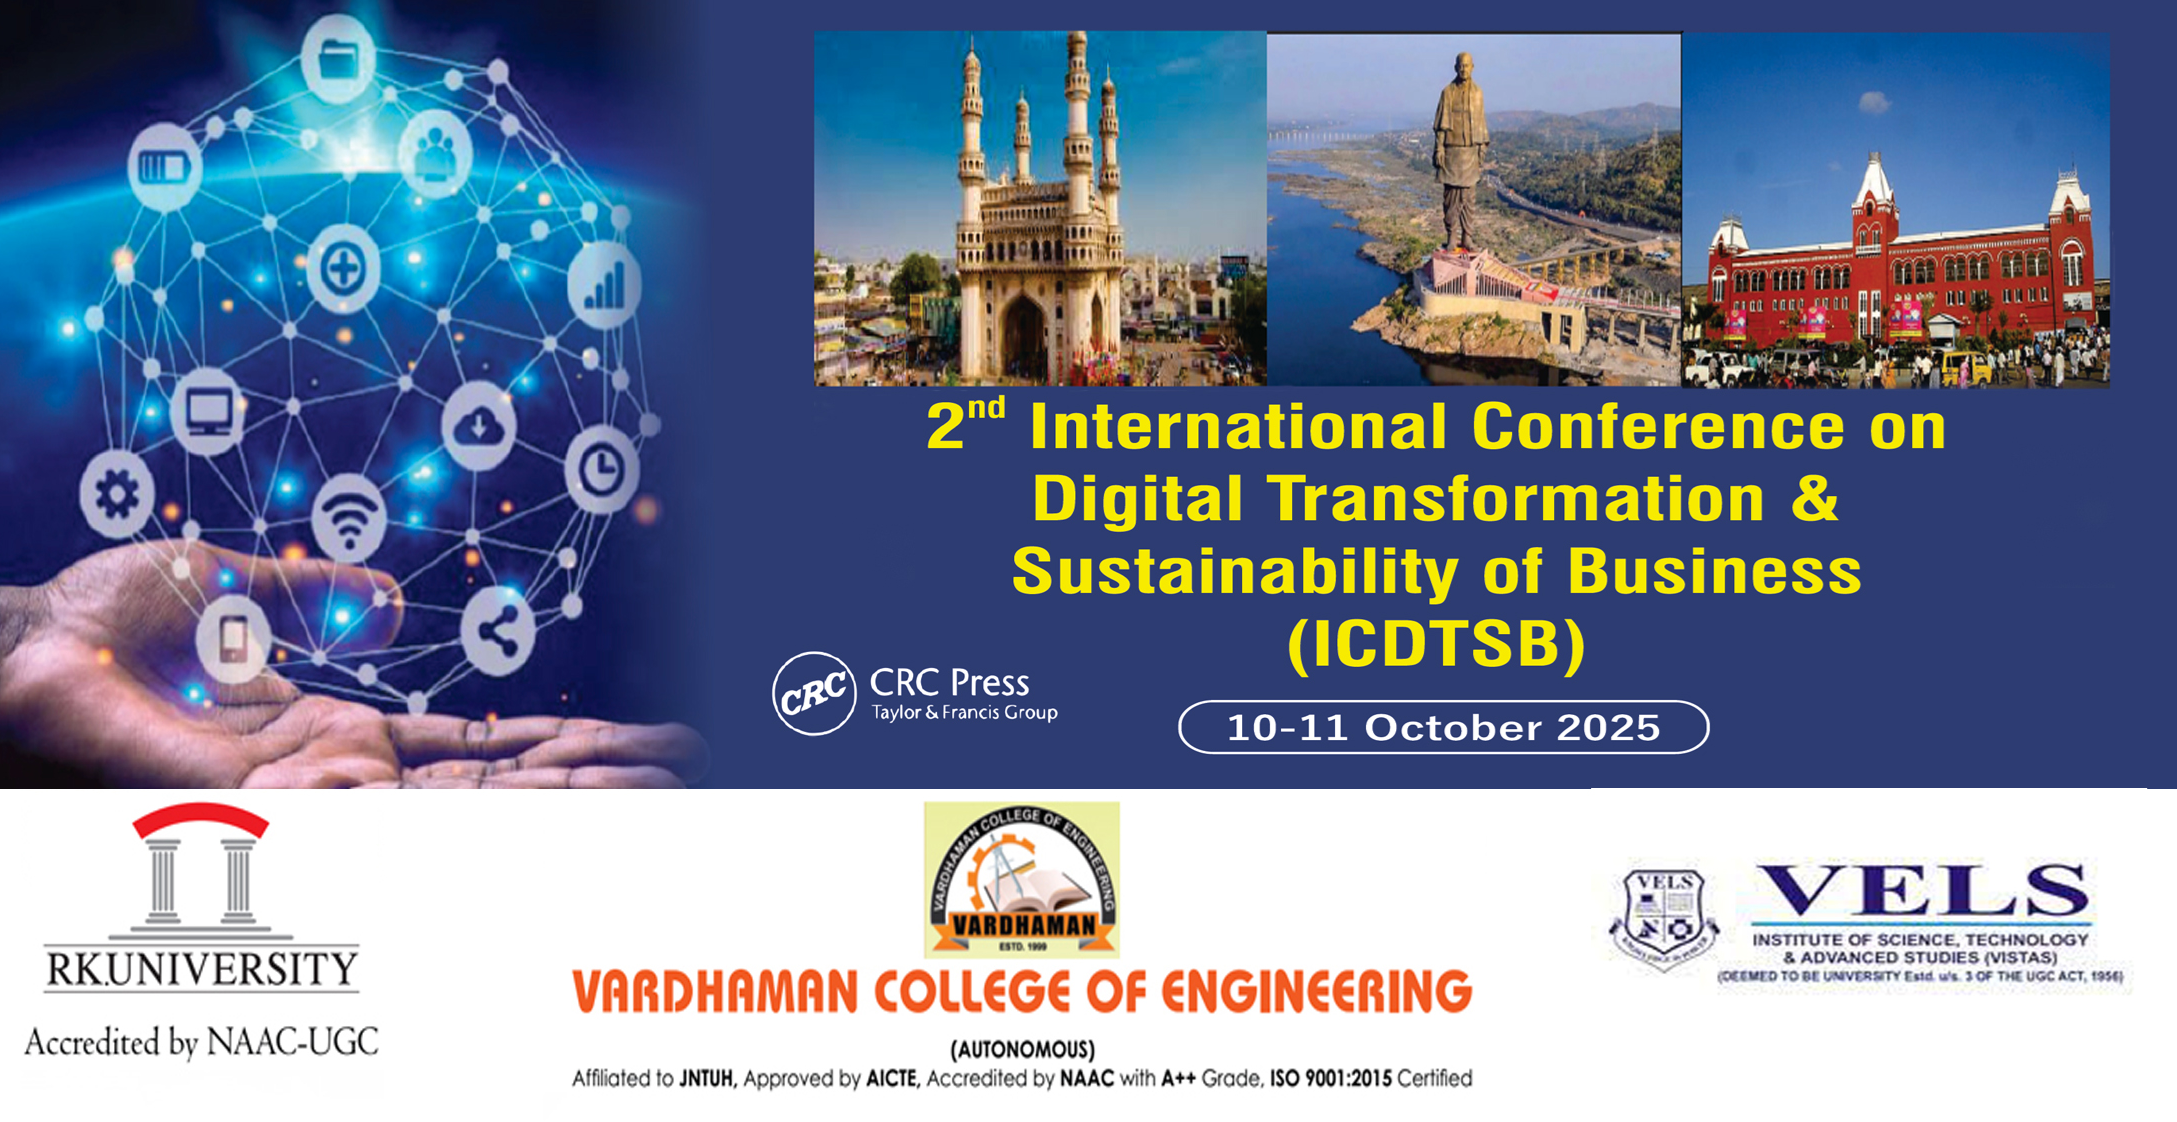
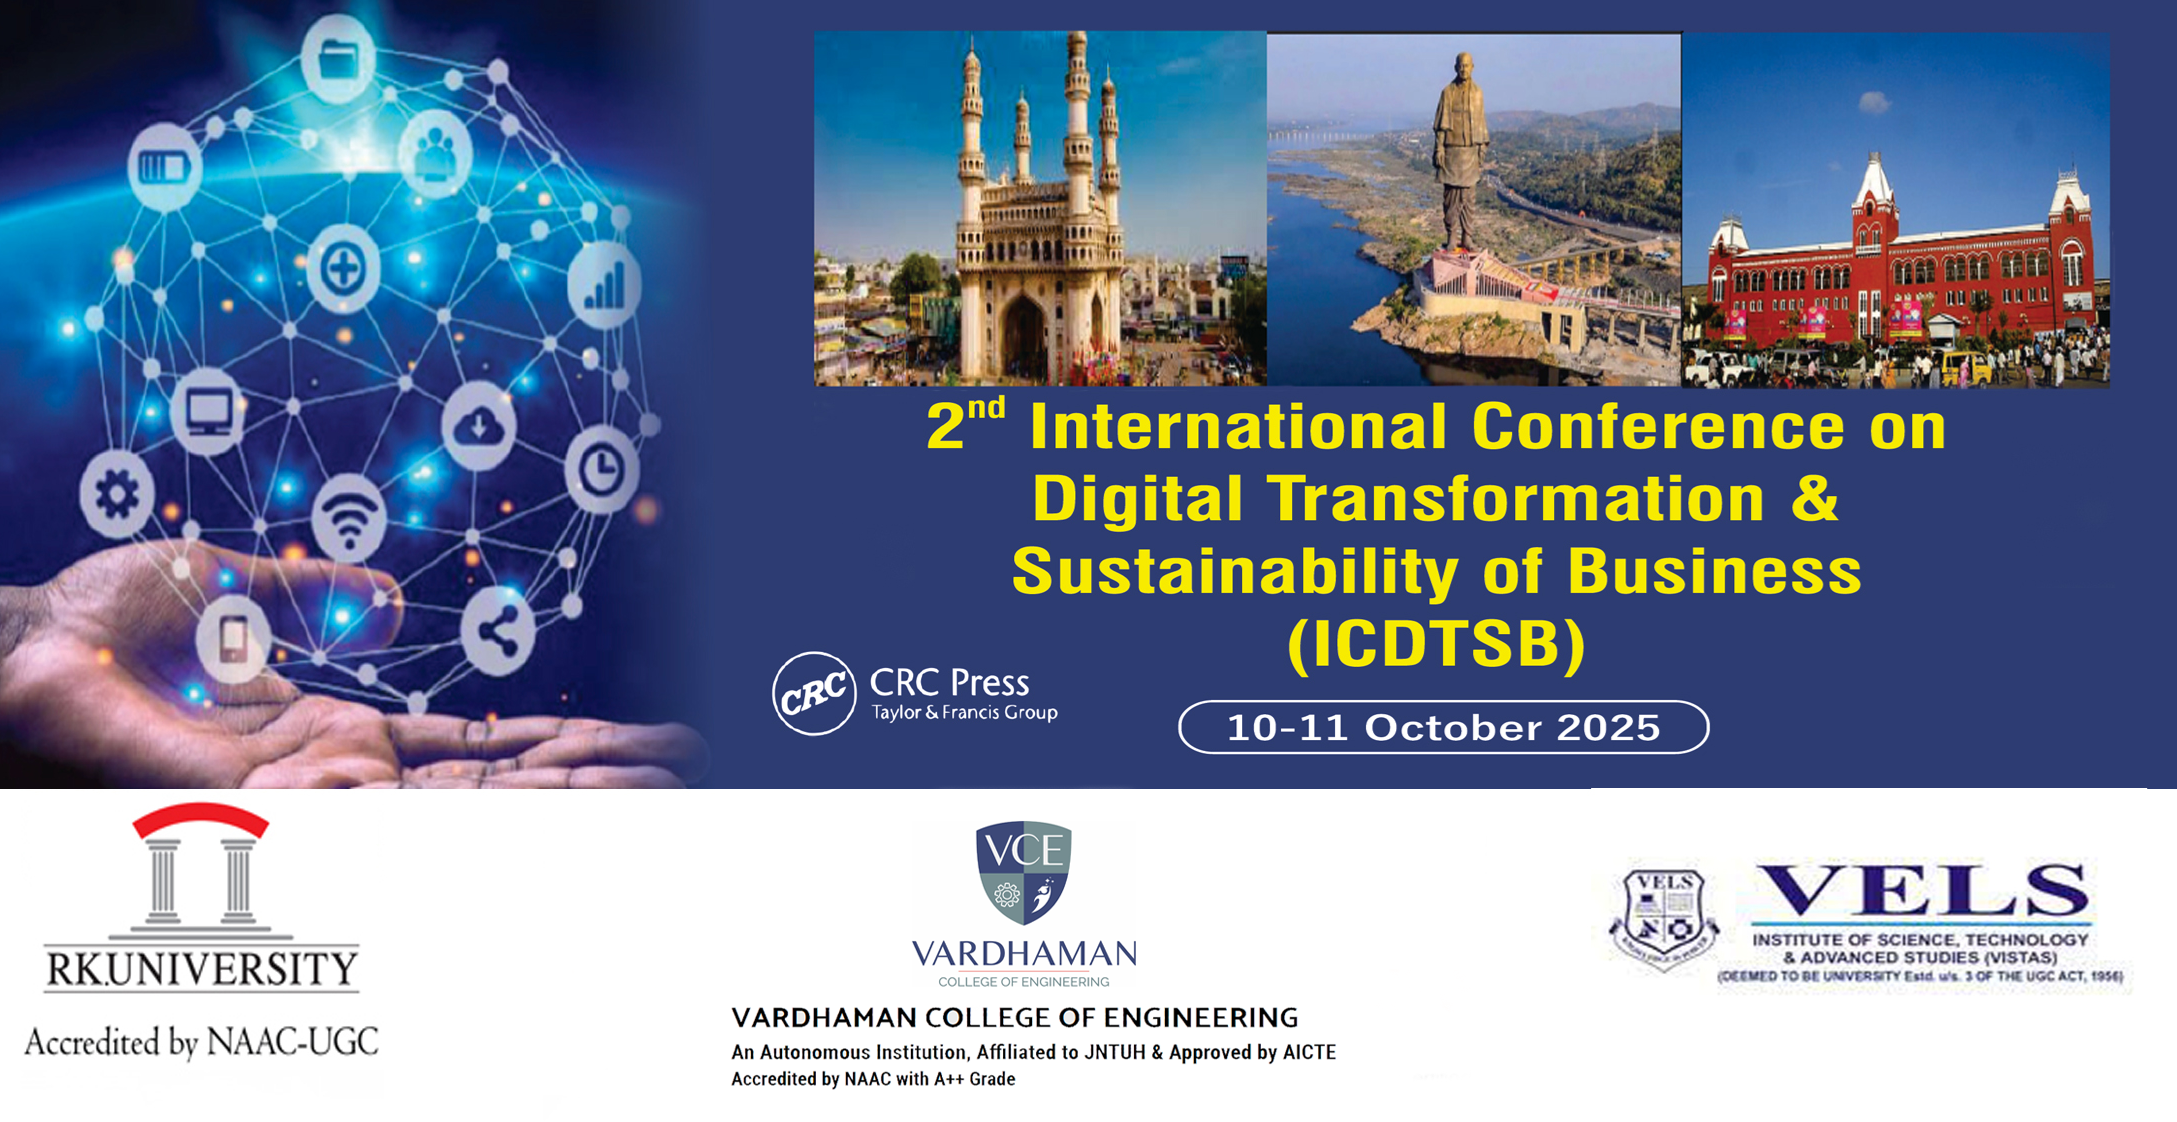
containt update

Changed region(s): [[0.2499, 0.6863, 0.6872, 0.967]]

diff --git a/index.html b/index.html
@@ -51,11 +51,11 @@
                 <li class="nav-item5">
                     <a href="./assets/documents/CALL FOR PAPERS f.pdf" class="nav-link5">Call for Papers</a>
                 </li>
-                <li class="nav-item5">
+                <!-- <li class="nav-item5">
                     <a href="./assets/documents/advisory.pdf" class="nav-link5">Committees</a>
 
                    
-                </li>            
+                </li>             -->
                 <li class="nav-item5">
                     <a href="./themeofconfe.html" class="nav-link5">Theme of Conference</a>
                                                             
@@ -77,7 +77,7 @@
                     <a href="#" class="nav-link5">Registration</a>
                 </li>
                 <li class="nav-item5">
-                    <a href="#" class="nav-link5">Contact Us</a>
+                    <a href="contactus.html" class="nav-link5">Contact Us</a>
                 </li>
             </ul>
             <div class="hamburger5">
@@ -168,7 +168,19 @@
                 future of innovation and environmental responsibility with us!
             </p>
         </div>
-         <div class="joel-added-text-container">
+         
+        <div class="joel-added-text-container">
+            <div class="col-12">
+                <h3 class="text-center"  data-aos-anchor-placement="top-bottom">About Vardhaman<br>
+                </h3>
+            </div>
+            <!-- data-aos="fade-up" -->
+            <p>Vardhaman College of Engineering (VCE) was established in the year 1999 by Vardhaman Educational Society, Hyderabad. It is a UGC Autonomous college, approved by AICTE, and is permanently affiliated to Jawaharlal Nehru Technological University (JNTU), Hyderabad. We offer undergraduate B.Tech programmes in CSE, CSE (AI&ML), AI&ML, AI&DS, IT, ECE, EEE, ME and CE; postgraduate M.Tech programmes with specialisation in DECS, PEED, CSE, SE, and ED; MBA programme; and doctoral programmes in CSE, ECE and ME.
+                The college is accredited by NAAC at A++ grade with a CGPA of 3.58 on a scale of 4. Six of its UG engineering programmes – B. Tech ECE, EEE, CSE, ME, CE, and IT are accredited by the National Board of Accreditation (NBA), New Delhi under the Tier-1 category.
+                VCE is the most sought-after institute to make the dreams fulfilled for many aspiring engineers. Our major strength lies in imparting quality education to the global standards and envisages to address various societal needs.
+            </p>
+        </div>
+        <div class="joel-added-text-container">
             <div class="col-12">
                 <h3 class="text-center"  data-aos-anchor-placement="top-bottom">About RKU<br>
                 </h3>
@@ -194,17 +206,6 @@ surrounded by a circle of learning,
 nurtured by hands of knowledge. By giving
 them a global exposure, we allow
 understanding to seep through projectbased learning.
-            </p>
-        </div>
-        <div class="joel-added-text-container">
-            <div class="col-12">
-                <h3 class="text-center"  data-aos-anchor-placement="top-bottom">About Vardhaman<br>
-                </h3>
-            </div>
-            <!-- data-aos="fade-up" -->
-            <p>Vardhaman College of Engineering (VCE) was established in the year 1999 by Vardhaman Educational Society, Hyderabad. It is a UGC Autonomous college, approved by AICTE, and is permanently affiliated to Jawaharlal Nehru Technological University (JNTU), Hyderabad. We offer undergraduate B.Tech programmes in CSE, CSE (AI&ML), AI&ML, AI&DS, IT, ECE, EEE, ME and CE; postgraduate M.Tech programmes with specialisation in DECS, PEED, CSE, SE, and ED; MBA programme; and doctoral programmes in CSE, ECE and ME.
-                The college is accredited by NAAC at A++ grade with a CGPA of 3.58 on a scale of 4. Six of its UG engineering programmes – B. Tech ECE, EEE, CSE, ME, CE, and IT are accredited by the National Board of Accreditation (NBA), New Delhi under the Tier-1 category.
-                VCE is the most sought-after institute to make the dreams fulfilled for many aspiring engineers. Our major strength lies in imparting quality education to the global standards and envisages to address various societal needs.
             </p>
         </div>
 
@@ -356,15 +357,15 @@ understanding to seep through projectbased learning.
             <p1 class="joel-para">Measure the enhanced business performance through Digital transformation</p1>
         </div>
         <div class="joel-sub-container">
-            <h2 class="joel-header">Innovation</h2> <br><br>
+            <h2 class="joel-header">Business Sustainability</h2> <br><br>
             <p1 class="joel-para">Measure the  enhanced business performance through Digital transformation </p1>
         </div>
         <div class="joel-sub-container">
-            <h2 class="joel-header">Sustainable Practices</h2> <br><br>
+            <h2 class="joel-header">Business Process Enhancement</h2> <br><br>
             <p1 class="joel-para">Relate the enhanced business processes through digital technologies <p1>
         </div>
         <div class="joel-sub-container">
-            <h2 class="joel-header">Sustainable Strategies</h2> <br>
+            <h2 class="joel-header">Sustainable Models</h2> <br>
             <p1 class="joel-para">Review the sustainable business models.</p1>
         </div>
     </div>
@@ -401,7 +402,7 @@ understanding to seep through projectbased learning.
 
                         <strong> ORGANIZING COMMITTEE </strong>  <br>Dr Sukanya Metta Professor & HOD, Department of
                         Management Studies, VCE
-                        <br>Dr Sunkri Suneetha, Professor, Department of
+                        <br>Dr Sunkari Suneetha, Professor, Department of
                         Management Studies, VCE
                         <br><br>Affiliated to JNTUH, Approved by AICTE, Accredited by NAAC with A++ Grade. <br>ISO 9001:2015 Certified
                         Kacharam, Shamshabad, Hyderabad - 501218, Telangana, India

diff --git a/contactus.html b/contactus.html
@@ -59,21 +59,16 @@
                  <li class="nav-item5">
                     <a href="./assets/documents/CONFERENCE BROCHURE final.pdf" class="nav-link5">Brochure</a>
                 </li> -->
-          <li class="nav-item5">
-            <a
-              href="./assets/documents/CONFERENCE BROCHURE f.pdf"
-              class="nav-link5"
-              >Brochure</a
-            >
-          </li>
-          <li class="nav-item5">
-            <a href="./assets/documents/CALL FOR PAPERS f.pdf" class="nav-link5"
-              >Call for Papers</a
-            >
-          </li>
-          <li class="nav-item5">
+                <li class="nav-item5">
+
+                  <a href="./assets/documents/CONFERENCE BROCHURE.pdf" class="nav-link5">Brochure</a>
+              </li>                
+              <li class="nav-item5">
+                  <a href="./assets/documents/CALL FOR PAPERS f.pdf" class="nav-link5">Call for Papers</a>
+              </li>
+          <!-- <li class="nav-item5">
             <a href="#" class="nav-link5">Committees</a>
-          </li>
+          </li> -->
           <li class="nav-item5">
             <a href="./assets/documents/CRCWordTemplate.docx" class="nav-link5"
               >CRC Word Template</a
@@ -88,7 +83,7 @@
             <a href="#" class="nav-link5">Registration</a>
           </li>
           <li class="nav-item5">
-            <a href="#" class="nav-link5">Contact Us</a>
+            <a href="contactus.html" class="nav-link5">Contact Us</a>
           </li>
         </ul>
         <div class="hamburger5">
@@ -144,34 +139,57 @@
       <script src="script.js"></script>
     </div>
     <br><br><br>
-    <table id="cont">
+    <table id="cont" style="margin-left: 260px;margin-top: 50px;" >
+
       <tr>
-        <td>
-          <class="logo-container" data-aos="zoom-in">
-            <img src="assets/images/rku.png" alt="University Logo" />
-            
-        </td>
-           
-                <td>
-            <div class="joel-added-text-container-footer">
-              Accredited by NAAC <br />Bhavnagar Highway, Kasturbadham, Rajkot,
-              Gujarat, India 360020.
-            </div>
-          </div>
-        </td>
-      
-        <td>
-          <div class="logo-container" data-aos="zoom-in">
-            <img src="assets/images/wimage.png" alt="University Logo" />
-            <div class="joel-added-text-container-footer">
-              Affiliated to JNTUH, Approved by AICTE, Accredited by NAAC with
-              A++ Grade. <br />ISO 9001:2015 Certified Kacharam, Shamshabad,
-              Hyderabad - 501218, Telangana, India.
-            </div>
-          </div>
-        </td>
+          <td>
+              <br>
+              <div class="logo-container" data-aos="zoom-in">
+                  <a href="https://rku.ac.in/">
+
+                  <img src="assets/images/rku-removebg-preview.png" style="margin-bottom: -20px;" alt="University Logo"></a>
+                
+                  <!-- <div class="joel-added-text-container-footer">
+                     <strong> ORGANIZING COMMITTEE </strong>  <br>Dr. Chintan Rajani, Director, School of
+                      Management, RK University, Gujarat.
+                      <br>Dr. Chetan Shingadiya, Professor, School of Engineering, RK University, Gujarat. -->
+                      <br><br>Accredited by NAAC  <br>Bhavnagar Highway, Kasturbadham, <br>Rajkot, Gujarat, India 360020.
+
+                                  </div>
+          </td>
+          <td>
+              <div class="logo-container" data-aos="zoom-in" style="margin-bottom: -60px;">
+                 <a href="https://vardhaman.org/">
+                  <img src="assets/images/vardhman_transparant.png" style="margin-bottom: -50px;" class="vard-logo-img"  alt="University Logo"></a>
+                  <div class="joel-added-text-container-footer">
+
+                      <!-- <strong> ORGANIZING COMMITTEE </strong>  <br>Dr Sukanya Metta Professor & HOD, Department of
+                      Management Studies, VCE
+                      <br>Dr Sunkari Suneetha, Professor, Department of
+                      Management Studies, VCE -->
+                      <br><br>Affiliated to JNTUH, Approved by AICTE, <br>Accredited by NAAC with A++ Grade. <br>
+                      Kacharam, Shamshabad, Hyderabad - 501218, Telangana, India
+                                             
+                  </div>
+              </div>
+          </td>
+
+          <td>
+              <div class="logo-container" data-aos="zoom-in">
+                 <a href="https://vistas.ac.in/">
+                  <img src="assets/images/Vels_University_logo-removebg.png" style="margin-bottom: -30px;" alt="University Logo" class="vels-logo-img"></a>
+                  <!-- <div class="joel-added-text-container-footer">
+                      <strong> ORGANIZING COMMITTEE </strong>  <br>Dr. G. Amutha, Associate Professor, MBA, VISTAS, Chennai, India
+                      <br>Dr. M. Kotteeswaran, Associate Professor, MBA,VISTAS, Chennai, India -->
+                      <br><br>Approved by AICTE, <br>Accredited by NAAC with A++ Grade. <br>
+                      Periyapalayam, Chennai - 600 117 India.
+                      
+                  </div>
+              </div>
+          </td>
+
       </tr>
-    </table>
+  </table>
      <!--<div class="logo-container" data-aos="zoom-in">
         <img src="assets/images/tmp.png" alt="University Logo">
         <img src="assets/images/wimage.png" alt="University Logo">

diff --git a/themeofconfe.html b/themeofconfe.html
@@ -52,11 +52,11 @@
                     <a href="./assets/documents/CALL FOR PAPERS f.pdf" class="nav-link5">Call for Papers</a>
                 </li>
                 
-                <li class="nav-item5">
+                <!-- <li class="nav-item5">
                     <a href="./assets/documents/advisory.pdf" class="nav-link5">Committees</a>
 
                    
-                </li>   
+                </li>    -->
                 <li class="nav-item5">
                     <a href="./assets/documents/CRCWordTemplate.docx" class="nav-link5">CRC Word Template</a>
                 </li>
@@ -67,7 +67,7 @@
                     <a href="#" class="nav-link5">Registration</a>
                 </li>
                 <li class="nav-item5">
-                    <a href="#" class="nav-link5">Contact Us</a>
+                    <a href="contactus.html" class="nav-link5">Contact Us</a>
                 </li>
             </ul>
             <div class="hamburger5">

diff --git a/assets/css/style.css b/assets/css/style.css
@@ -3135,7 +3135,7 @@ ul{
 }
 #cont{
     margin-left: 80px;
-<<<<<<< HEAD
+
 }
 
 .vels-logo-img {
@@ -3145,6 +3145,13 @@ ul{
     max-height: 130px !important;
     display: block;
     margin: 0 auto;
-=======
->>>>>>> 6b50e56633e9b0fb87927a81745d483747453d91
+
+}
+.vard-logo-img{
+    width: 150px !important;
+    height: 145px !important;
+    max-width: 150px !important;
+    max-height: 145px !important;
+    display: block;
+    margin: 0 auto;
 }
